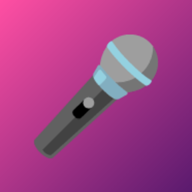
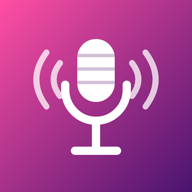
Icono propio (micrófono vectorial, maskable), manifiesto y service worker para instalar como app
Claude-Session: https://claude.ai/code/session_01Ry5TpcwPnJ7aSS1TzN4kKE

Changed region(s): [[0.1562, 0.1562, 0.8438, 0.8438], [0.1562, 0.25, 0.2812, 0.5938]]

diff --git a/public/index.html b/public/index.html
@@ -8,7 +8,8 @@
 <meta name="mobile-web-app-capable" content="yes">
 <meta name="apple-mobile-web-app-title" content="Karaoke">
 <link rel="manifest" href="/manifest.webmanifest">
-<link rel="apple-touch-icon" href="/icon-192.png">
+<link rel="icon" href="/icon.svg" type="image/svg+xml">
+<link rel="apple-touch-icon" href="/apple-touch-icon.png">
 <title>Karaoke Party</title>
 <style>
   :root { --bg:#1a0b2e; --card:#2a1450; --pink:#ff4fa3; --text:#fff; --muted:#b9a7d6; }
@@ -151,5 +152,6 @@ $('results').onclick = async e => {
 const es = new EventSource('/events');
 es.onmessage = e => { data = JSON.parse(e.data); renderLibrary(); renderQueue(); };
 </script>
+<script>if ('serviceWorker' in navigator) navigator.serviceWorker.register('/sw.js').catch(() => {});</script>
 </body>
 </html>

diff --git a/public/preparar.html b/public/preparar.html
@@ -6,7 +6,8 @@
 <meta name="theme-color" content="#1a0b2e">
 <meta name="apple-mobile-web-app-capable" content="yes">
 <link rel="manifest" href="/manifest.webmanifest">
-<link rel="apple-touch-icon" href="/icon-192.png">
+<link rel="icon" href="/icon.svg" type="image/svg+xml">
+<link rel="apple-touch-icon" href="/apple-touch-icon.png">
 <title>Agregar canciones</title>
 <style>
   :root { --bg:#1a0b2e; --card:#2a1450; --pink:#ff4fa3; --text:#fff; --muted:#b9a7d6; }
@@ -124,5 +125,6 @@ es.onmessage = e => {
     : '<p class="hint">Aún no hay canciones.</p>';
 };
 </script>
+<script>if ('serviceWorker' in navigator) navigator.serviceWorker.register('/sw.js').catch(() => {});</script>
 </body>
 </html>

diff --git a/public/tv.html b/public/tv.html
@@ -4,6 +4,7 @@
 <meta charset="utf-8">
 <meta name="viewport" content="width=device-width, initial-scale=1">
 <meta name="theme-color" content="#000000">
+<link rel="icon" href="/icon.svg" type="image/svg+xml">
 <title>Karaoke Party - Pantalla</title>
 <style>
   html,body { margin:0; height:100%; background:#000; color:#fff; font-family:system-ui,sans-serif; overflow:hidden; }

diff --git a/public/sw.js b/public/sw.js
@@ -1,0 +1,5 @@
+// Service worker mínimo: permite que el navegador ofrezca "Instalar app". No guarda nada en caché
+// (la app necesita el servidor de la laptop para funcionar).
+self.addEventListener('install', () => self.skipWaiting());
+self.addEventListener('activate', e => e.waitUntil(self.clients.claim()));
+self.addEventListener('fetch', () => {});

diff --git a/README.md b/README.md
@@ -19,6 +19,14 @@ se escribe la letra y se genera un **video karaoke** (letra que se pinta palabra
 3. `pip install -r requirements.txt` (la 1ª vez descarga modelos de IA, 1–3 GB: hazlo con buen internet y con tiempo).
 4. `node server.js` → muestra las direcciones. Abre la principal en el teléfono (mismo Wi-Fi) y toca "Añadir a la pantalla de inicio" para que se vea como app.
 
+## Instalarla como app en el teléfono
+La app se sirve por Wi-Fi local (`http://IP:3000`). Los navegadores solo ofrecen "Instalar app" con HTTPS, así que:
+- **iPhone (Safari):** Compartir → **Añadir a pantalla de inicio**. Funciona sin HTTPS y se abre como app, con el icono.
+- **Android (Chrome), prueba rápida:** abre `chrome://flags/#unsafely-treat-insecure-origin-as-secure`, activa la opción, escribe `http://IP-DE-LA-LAPTOP:3000`,
+  reinicia Chrome y luego menú ⋮ → **Instalar app**. (Sin esto, "Añadir a pantalla de inicio" crea solo un acceso directo con el icono.)
+- **Cualquiera, con HTTPS real:** un túnel como `cloudflared tunnel --url http://localhost:3000` da una dirección `https://…` temporal que sí se instala normal.
+- Iconos en `public/`: `icon.svg`, `icon-192.png`, `icon-512.png`, `icon-maskable-512.png` (Android), `apple-touch-icon.png` (iPhone).
+
 ## Antes de la fiesta: armar las carpetas
 En **➕ Agregar canciones** (desde laptop o teléfono):
 1. Escribe el nombre de la **carpeta** (ej. "Cumple de Lissa") y el idioma.
